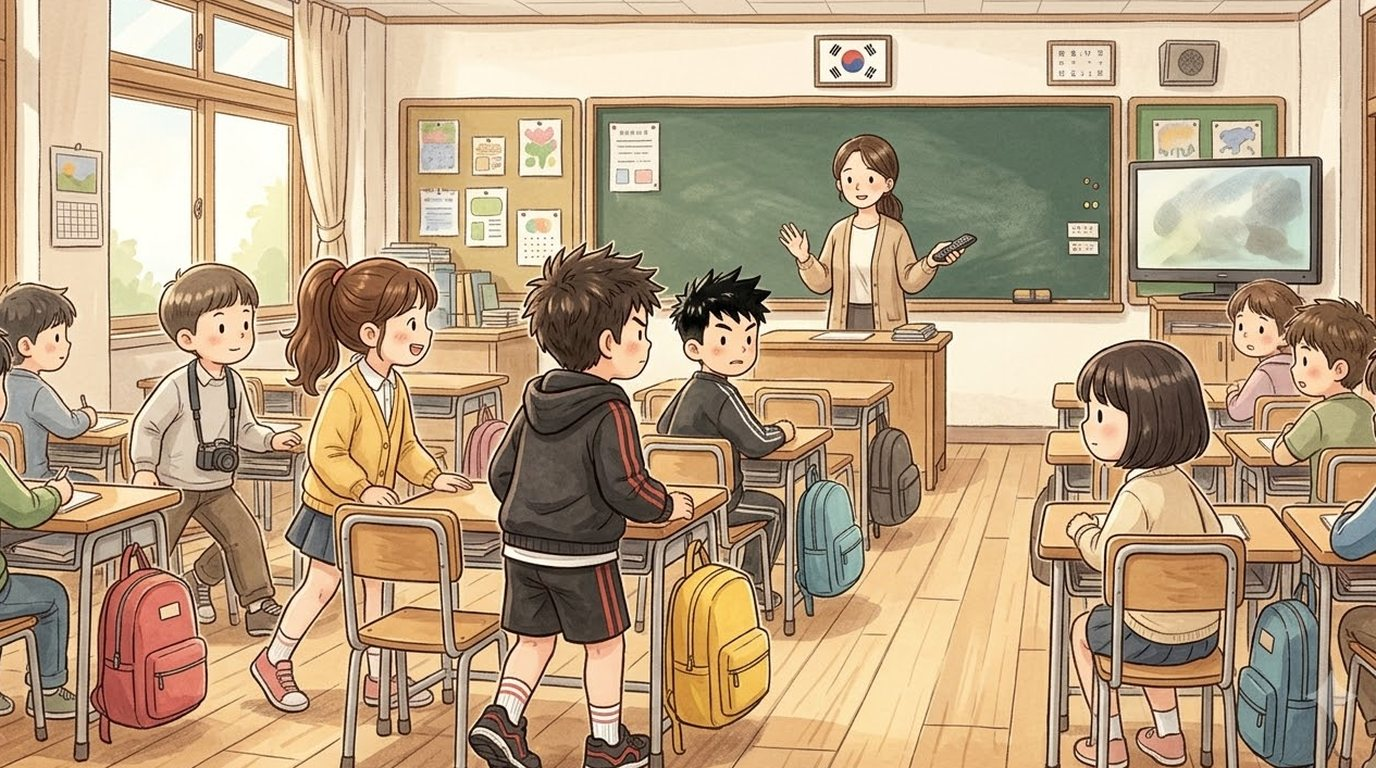
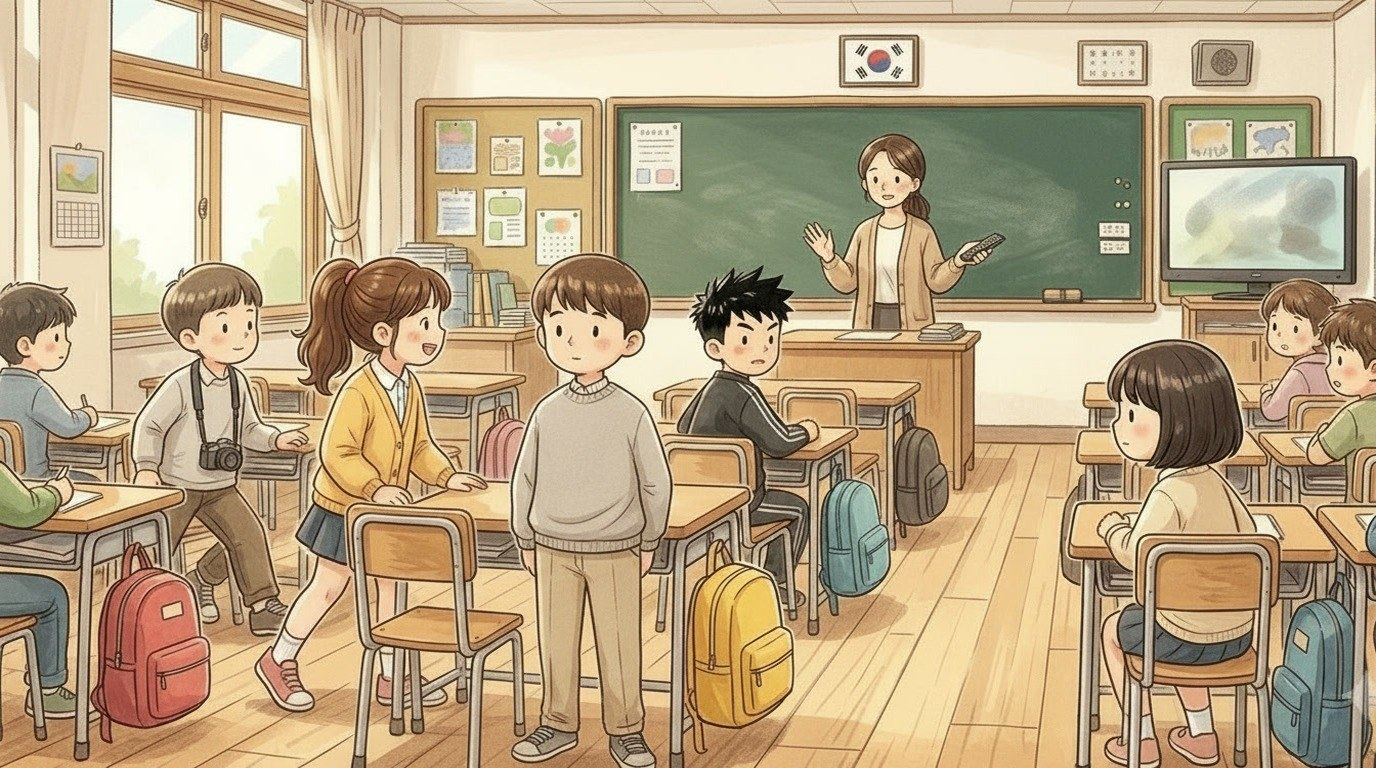
redraw (Leonardo): junho_06 left sock pushed down, black ankle brace fully visible; haneul_05ct and 05r without Minho (an ordinary classmate in grey), 05r Yena in her own look (BUILD 1107091300)

diff --git a/index.html b/index.html
@@ -119,14 +119,14 @@ body,button{word-break:keep-all;overflow-wrap:break-word}
 <div id="fader"></div>
 <script>
 // same address, newest version: if the page this phone has kept is older than the one online, fetch the new one and reopen
-const BUILD='1107091044';
+const BUILD='1107091300';
 try{fetch(location.pathname,{cache:'no-store'}).then(r=>r.text()).then(t=>{const m=t.match(/const BUILD='(\d+)'/);if(m&&m[1]!==BUILD&&sessionStorage.getItem('upd')!==m[1]){sessionStorage.setItem('upd',m[1]);fetch(location.pathname,{cache:'reload'}).then(()=>location.reload())}}).catch(()=>{})}catch(e){}
 </script>
-<script src="i18n.js?v=1107091044"></script>
-<script src="i18n_prologue_v2.js?v=1107091044"></script>
-<script src="day2/i18n_engine.js?v=1107091044"></script>
-<script src="day2/data.js?v=1107091044"></script>
-<script src="day3/data.js?v=1107091044"></script>
+<script src="i18n.js?v=1107091300"></script>
+<script src="i18n_prologue_v2.js?v=1107091300"></script>
+<script src="day2/i18n_engine.js?v=1107091300"></script>
+<script src="day2/data.js?v=1107091300"></script>
+<script src="day3/data.js?v=1107091300"></script>
 <script>
 // ---------- data ----------
 const MW=1672,MH=941,KID=180;
@@ -549,34 +549,34 @@ function pickHero(){const m=document.getElementById('modal'),c=document.getEleme
  c.innerHTML=`<h2>${tr('전학생 반장되기')}</h2><p>${tr('한국말이 아직 서툰 전학생,<br>반장 선거에 나가다.')}</p><p style="margin-top:14px">${tr('누구로 할까요?')}</p>${(()=>{const s=loadSave();return s&&s.day>=2&&s.mode===UI+'-'+LANG?`<p><button class="big" id="cont">${tr('{n}일차부터 이어 하기').replace('{n}',s.day)}</button></p>`:''})()}<div class="pick heroes"><button data-h="hero_f"><img src="faces/hero_f_smile.jpg" alt="여자 주인공">${heroName(1)}</button><button data-h="hero_m"><img src="faces/hero_m_smile.jpg" alt="남자 주인공">${heroName(0)}</button></div>`;
  m.classList.add('on');{const cb=document.getElementById('cont');if(cb)cb.onclick=()=>{const s=loadSave();HERO=s.hero;Object.assign(HEART,s.heart||{});(s.found||[]).forEach(k=>FOUND.add(k));HEART_D1={...HEART};chime();(typeof contGame==='function'?contGame(s):startDay(Math.min(s.day,Object.keys(window.D3||{}).length?3:2)))}}c.querySelectorAll('.pick button').forEach(b=>b.onclick=()=>{HERO=b.dataset.h;m.classList.remove('on');chime();bgm('day');load('home_am');say([['nar','','이사 온 다음 날 아침. 아직 풀지 못한 상자들이 쌓여 있다.'],['think','sad','(오늘부터 새 학교야. 여기 말도 아직 서툰데…….)'],['think','smile','({m}한테 인사하고 학교 가야지.)']],morning)})}
 </script>
-<script src="day2/engine.js?v=1107091044"></script>
-<script src="day2/ep_minho.js?v=1107091044"></script>
-<script src="day2/meet.js?v=1107091044"></script>
-<script src="day2/ep_sua.js?v=1107091044"></script>
-<script src="day2/ep_hangyeol.js?v=1107091044"></script>
-<script src="day2/ep_siwoo.js?v=1107091044"></script>
-<script src="day2/ep_haram.js?v=1107091044"></script>
-<script src="day2/ep_jiho.js?v=1107091044"></script>
-<script src="day2/ep_hyeeun.js?v=1107091044"></script>
-<script src="day2/ep_haneul.js?v=1107091044"></script>
-<script src="day2/ep_junho.js?v=1107091044"></script>
-<script src="day2/ep_yuna.js?v=1107091044"></script>
-<script src="day2/ep_yena.js?v=1107091044"></script>
-<script src="day2/ep_haeun.js?v=1107091044"></script>
-<script src="day2/ep_youngmin.js?v=1107091044"></script>
-<script src="day2/ep_seah.js?v=1107091044"></script>
-<script src="day2/ep_jihoon.js?v=1107091044"></script>
-<script src="words_ja_ru.js?v=1107091044"></script>
-<script src="day2/mybag.js?v=1107091044"></script>
-<script src="day2/wordpics.js?v=1107091044"></script>
-<script src="day2/spots.js?v=1107091044"></script>
-<script src="day2/textfit.js?v=1107091044"></script>
-<script src="day2/tester.js?v=1107091044"></script>
-<script src="day2/ux.js?v=1107091044"></script>
-<script src="day2/tapword.js?v=1107091044"></script>
-<script src="day2/review.js?v=1107091044"></script>
-<script src="day2/ep_ending.js?v=1107091044"></script>
-<script src="day2/ending.js?v=1107091044"></script>
+<script src="day2/engine.js?v=1107091300"></script>
+<script src="day2/ep_minho.js?v=1107091300"></script>
+<script src="day2/meet.js?v=1107091300"></script>
+<script src="day2/ep_sua.js?v=1107091300"></script>
+<script src="day2/ep_hangyeol.js?v=1107091300"></script>
+<script src="day2/ep_siwoo.js?v=1107091300"></script>
+<script src="day2/ep_haram.js?v=1107091300"></script>
+<script src="day2/ep_jiho.js?v=1107091300"></script>
+<script src="day2/ep_hyeeun.js?v=1107091300"></script>
+<script src="day2/ep_haneul.js?v=1107091300"></script>
+<script src="day2/ep_junho.js?v=1107091300"></script>
+<script src="day2/ep_yuna.js?v=1107091300"></script>
+<script src="day2/ep_yena.js?v=1107091300"></script>
+<script src="day2/ep_haeun.js?v=1107091300"></script>
+<script src="day2/ep_youngmin.js?v=1107091300"></script>
+<script src="day2/ep_seah.js?v=1107091300"></script>
+<script src="day2/ep_jihoon.js?v=1107091300"></script>
+<script src="words_ja_ru.js?v=1107091300"></script>
+<script src="day2/mybag.js?v=1107091300"></script>
+<script src="day2/wordpics.js?v=1107091300"></script>
+<script src="day2/spots.js?v=1107091300"></script>
+<script src="day2/textfit.js?v=1107091300"></script>
+<script src="day2/tester.js?v=1107091300"></script>
+<script src="day2/ux.js?v=1107091300"></script>
+<script src="day2/tapword.js?v=1107091300"></script>
+<script src="day2/review.js?v=1107091300"></script>
+<script src="day2/ep_ending.js?v=1107091300"></script>
+<script src="day2/ending.js?v=1107091300"></script>
 <script>
 // the goal shows big for a few seconds, then folds into a small pill (tap it to open it again)
 {const g=document.getElementById('goal');let t=null;const big=()=>{g.classList.remove('mini');clearTimeout(t);t=setTimeout(()=>g.classList.add('mini'),4000)};
